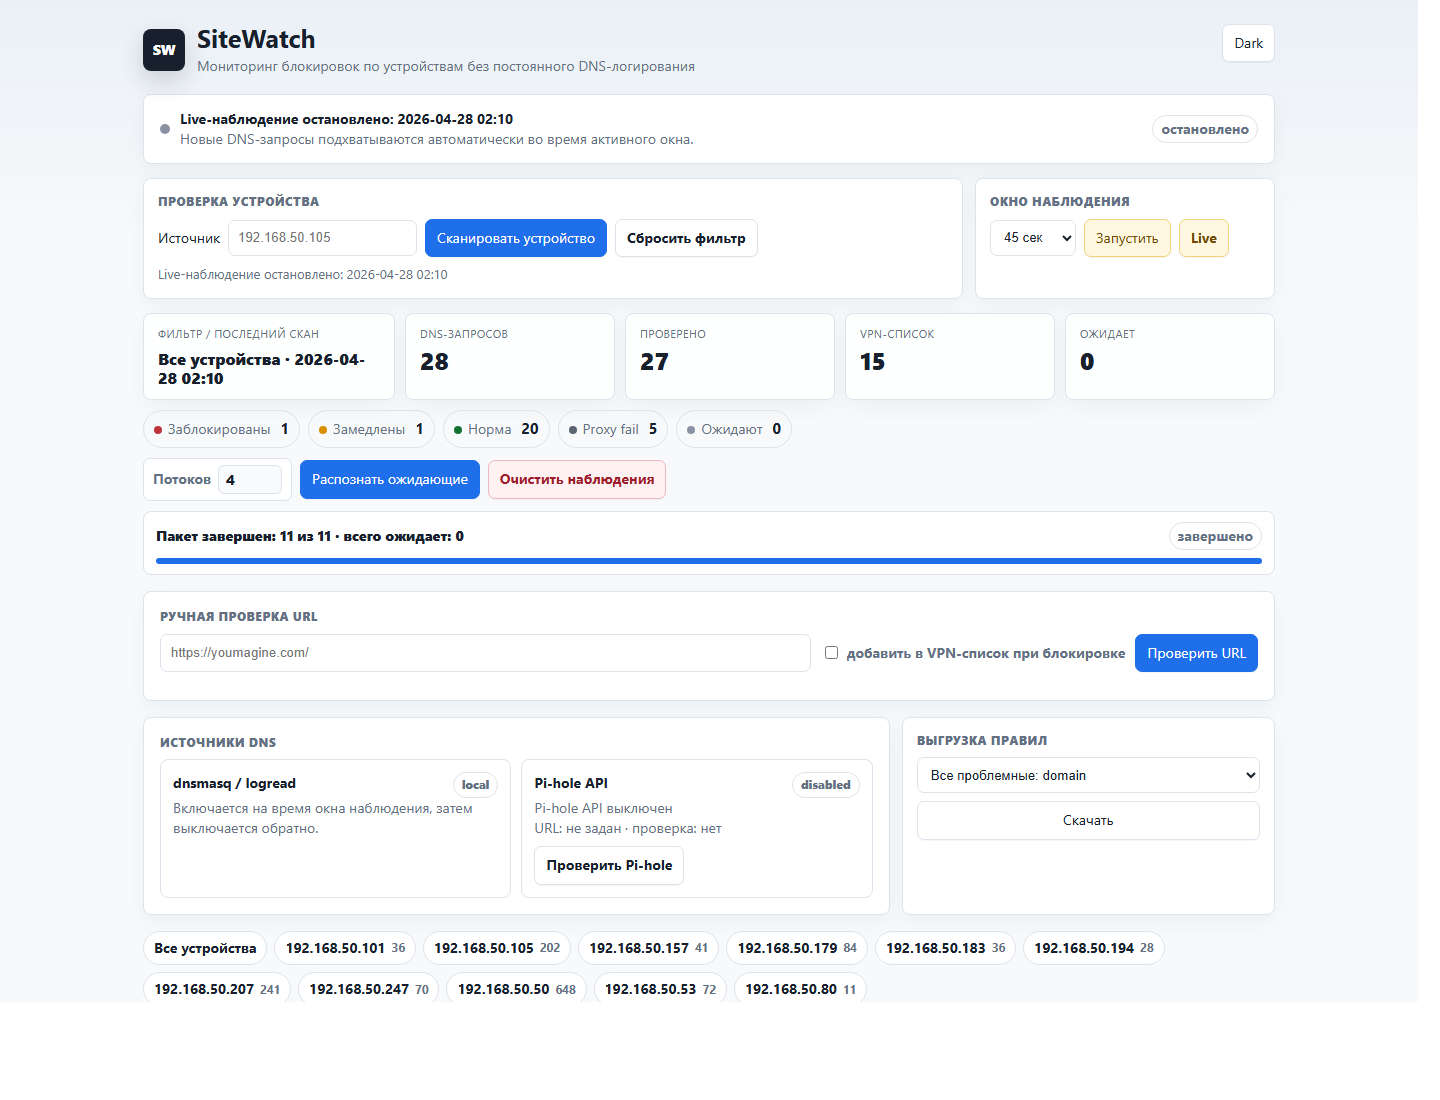
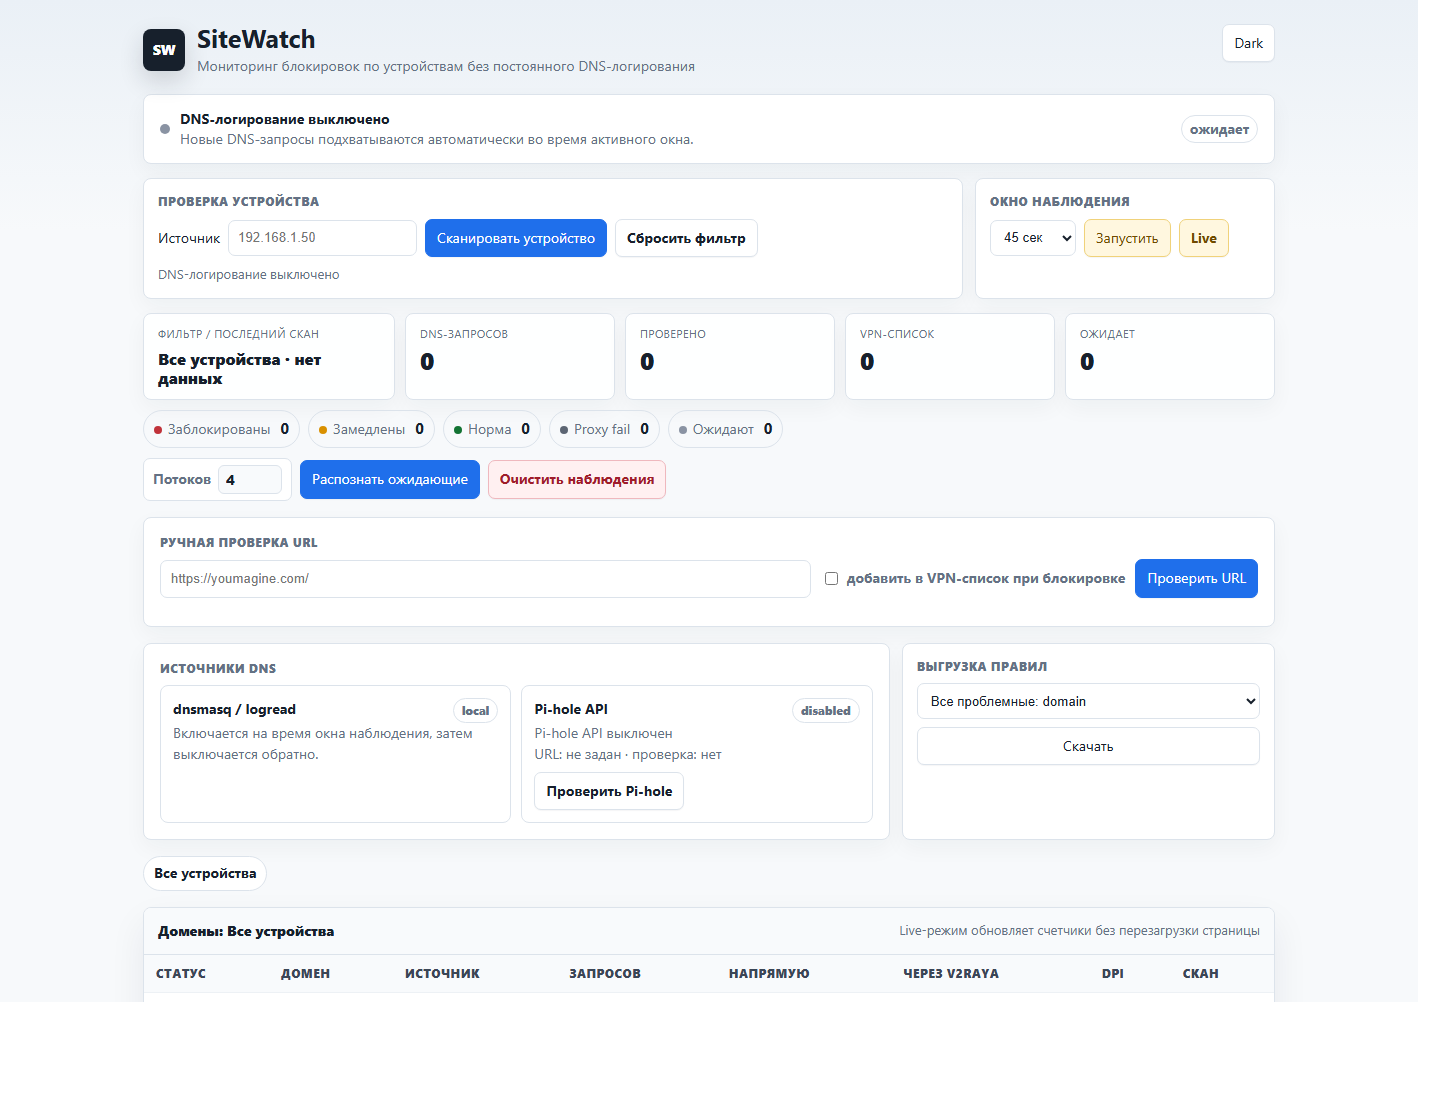
Sanitize public examples and screenshots

diff --git a/README.md b/README.md
@@ -98,11 +98,11 @@ http://localhost:8095/
 ```yaml
 SITEWATCH_PROXY: "http://host.docker.internal:20171"
 SITEWATCH_PIHOLE_API_ENABLED: "1"
-SITEWATCH_PIHOLE_URL: "http://192.168.50.50:8155"
+SITEWATCH_PIHOLE_URL: "http://192.168.1.2:8155"
 SITEWATCH_PIHOLE_PASSWORD: "<password>"
 ```
 
-Если v2rayA работает на роутере, укажи роутер вместо `host.docker.internal`, например `http://192.168.50.1:20171`. Если контейнер нужен только для ручной проверки и Pi-hole API, DNS-логи можно не монтировать.
+Если v2rayA работает на роутере, укажи роутер вместо `host.docker.internal`, например `http://192.168.1.1:20171`. Если контейнер нужен только для ручной проверки и Pi-hole API, DNS-логи можно не монтировать.
 
 ## Установка
 
@@ -169,7 +169,7 @@ SITEWATCH_DPI_DOH_URL="https://cloudflare-dns.com/dns-query"
 
 ```sh
 SITEWATCH_PIHOLE_API_ENABLED="1"
-SITEWATCH_PIHOLE_URL="http://192.168.50.50:8155"
+SITEWATCH_PIHOLE_URL="http://192.168.1.2:8155"
 SITEWATCH_PIHOLE_PASSWORD="<PIHOLE_PASSWORD>"
 SITEWATCH_PIHOLE_LOOKBACK="86400"
 SITEWATCH_PIHOLE_DISK="0"
@@ -259,7 +259,7 @@ sitewatch-check-url --add https://youmagine.com/
 Проверить только одно устройство:
 
 ```sh
-SITEWATCH_SOURCE_FILTER="192.168.50.105" SITEWATCH_FORCE_RESCAN=1 sitewatch-scan
+SITEWATCH_SOURCE_FILTER="192.168.1.50" SITEWATCH_FORCE_RESCAN=1 sitewatch-scan
 ```
 
 Готовый список для v2rayA:
@@ -280,13 +280,13 @@ domain:myminifactory.com
 Открыть UI с конкретным источником:
 
 ```text
-http://192.168.50.1:8095/?source=192.168.50.105
+http://192.168.1.1:8095/?source=192.168.1.50
 ```
 
 Запустить скан только для него:
 
 ```text
-http://192.168.50.1:8095/?action=scan&source=192.168.50.105
+http://192.168.1.1:8095/?action=scan&source=192.168.1.50
 ```
 
 ## Cron
